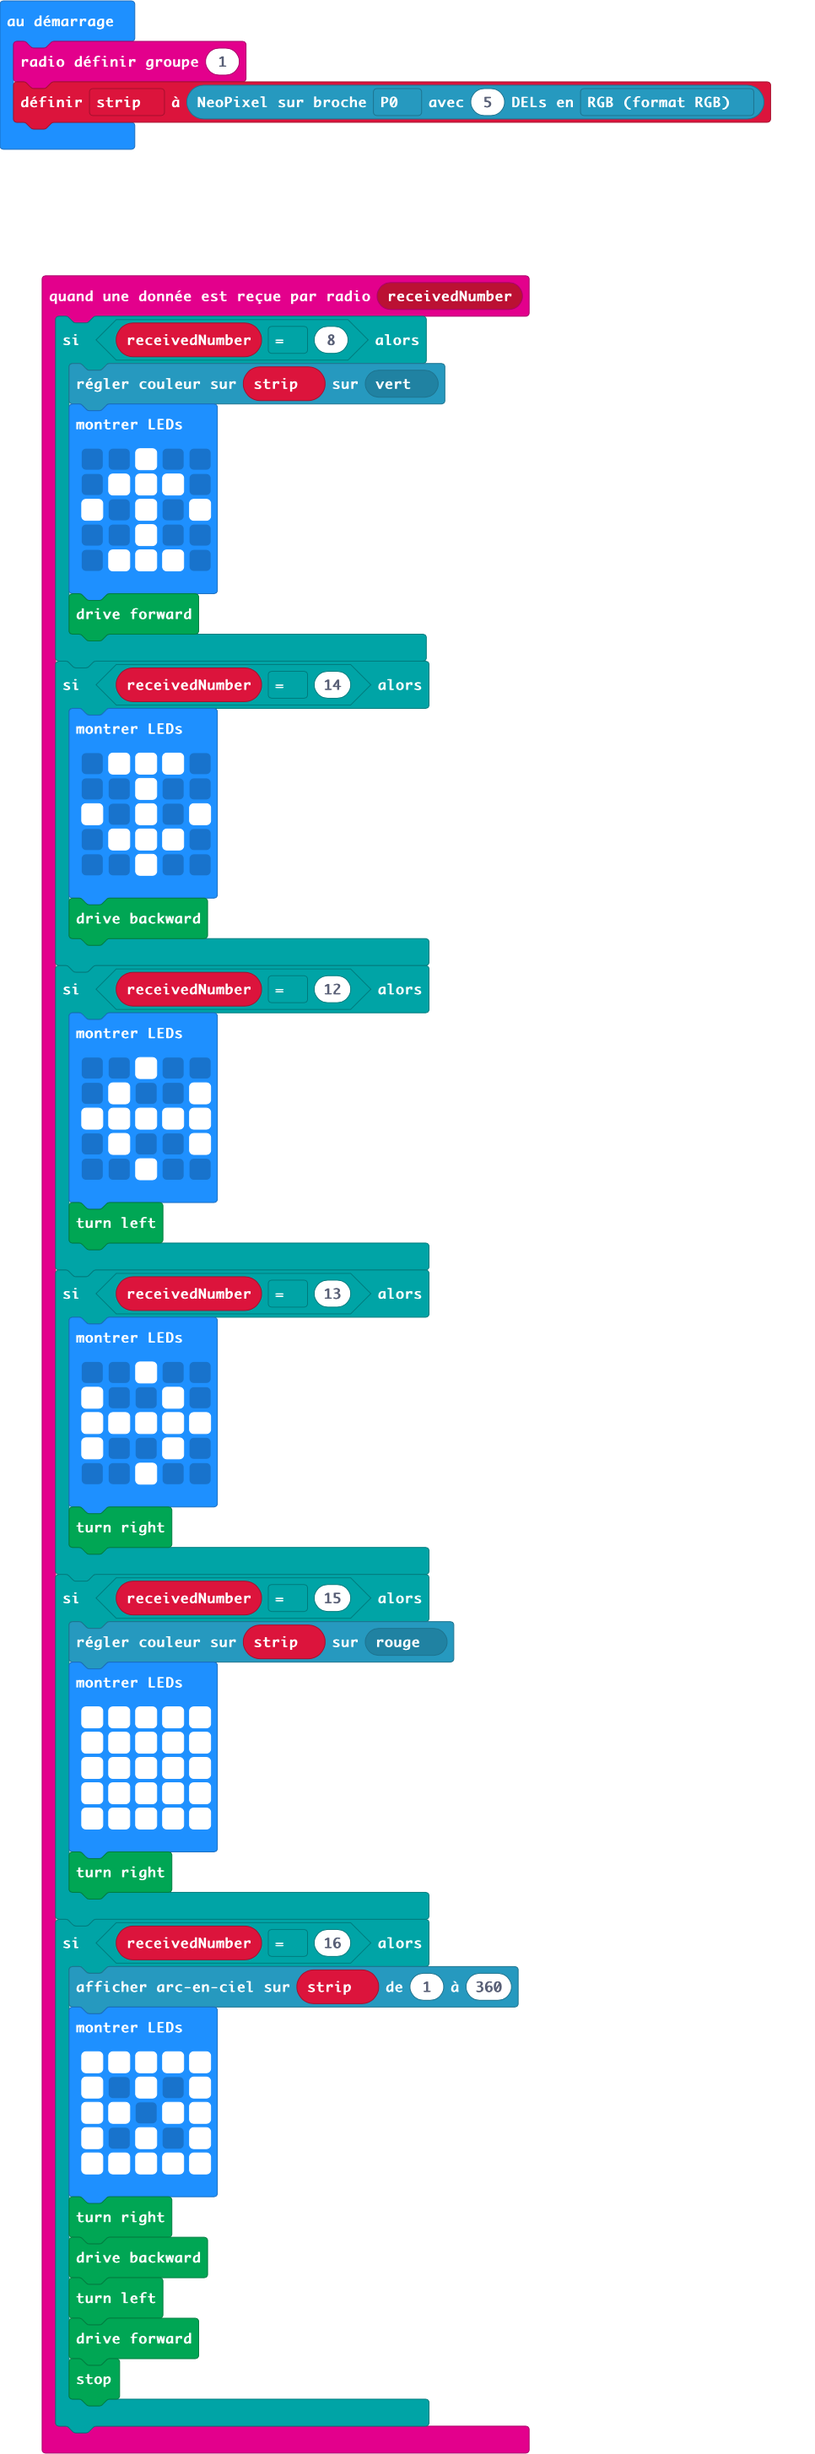
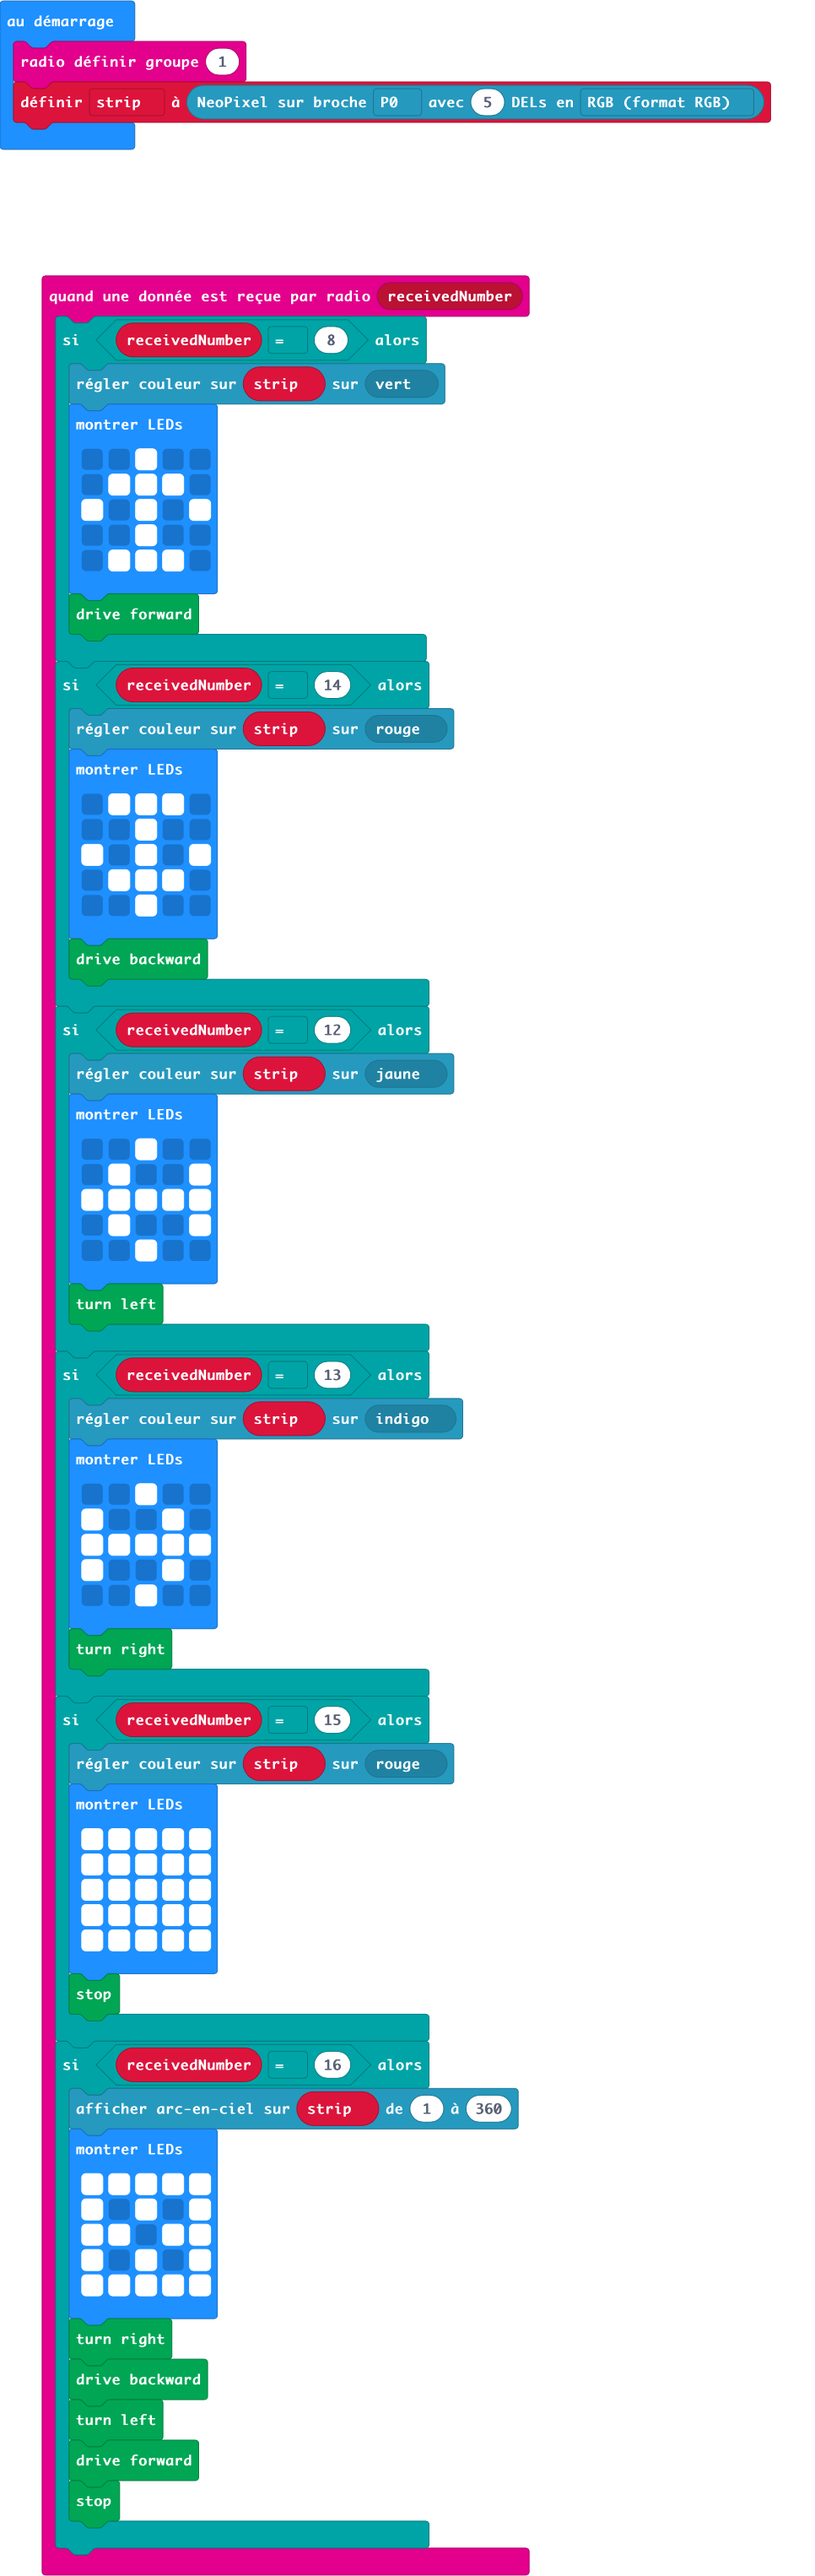
Mise à jour main.blocks, main.ts

Changed region(s): [[0.0621, 0.0928, 0.6522, 0.9904], [0.0, 0.0, 0.9627, 0.0619]]

diff --git a/main.ts b/main.ts
@@ -11,6 +11,7 @@ radio.onReceivedNumber(function (receivedNumber) {
         kitronik_servo_lite.forward()
     }
     if (receivedNumber == 14) {
+        strip.showColor(neopixel.colors(NeoPixelColors.Red))
         basic.showLeds(`
             . # # # .
             . . # . .
@@ -21,6 +22,7 @@ radio.onReceivedNumber(function (receivedNumber) {
         kitronik_servo_lite.backward()
     }
     if (receivedNumber == 12) {
+        strip.showColor(neopixel.colors(NeoPixelColors.Yellow))
         basic.showLeds(`
             . . # . .
             . # . . #
@@ -31,6 +33,7 @@ radio.onReceivedNumber(function (receivedNumber) {
         kitronik_servo_lite.left()
     }
     if (receivedNumber == 13) {
+        strip.showColor(neopixel.colors(NeoPixelColors.Indigo))
         basic.showLeds(`
             . . # . .
             # . . # .
@@ -49,7 +52,7 @@ radio.onReceivedNumber(function (receivedNumber) {
             # # # # #
             # # # # #
             `)
-        kitronik_servo_lite.right()
+        kitronik_servo_lite.stop()
     }
     if (receivedNumber == 16) {
         strip.showRainbow(1, 360)
